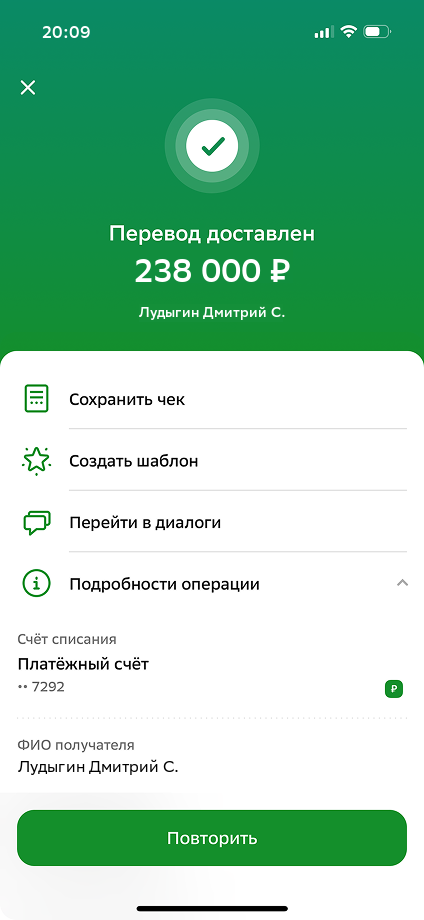
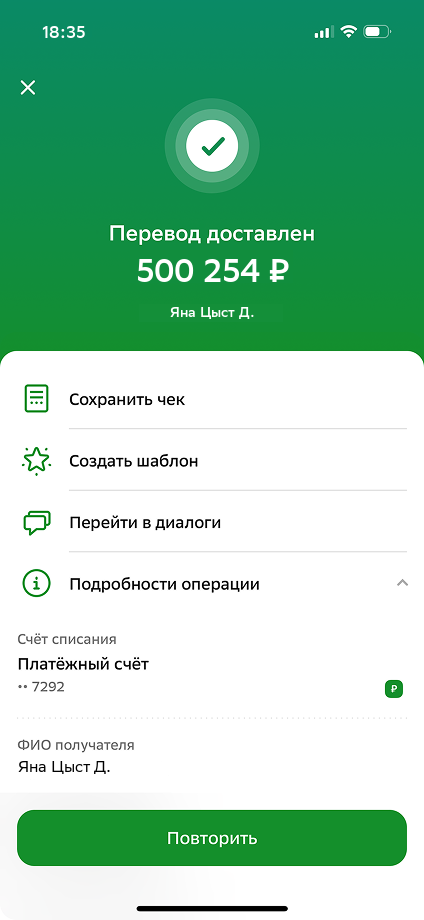
add bot functionality

diff --git a/Bot/bot.ts b/Bot/bot.ts
@@ -44,18 +44,24 @@ async function runPythonScript(
   time: string
 ): Promise<string> {
   return new Promise((resolve, reject) => {
-    const pythonProcess = spawn("python", [
-      path.join(__dirname, "..", "Script", "receipt.py"),
-      name,
-      amount,
-      time,
-    ]);
+    const scriptDir = path.join(__dirname, "..", "Script");
+    // Format data as Python dictionary
+    const dataDict = JSON.stringify({
+      name: name,
+      amount: amount,
+      time: time,
+    });
+    const pythonProcess = spawn(
+      "python",
+      [path.join(scriptDir, "receipt.py"), dataDict],
+      {
+        cwd: scriptDir, // Set the working directory to the Script directory
+      }
+    );
 
     pythonProcess.on("close", (code) => {
       if (code === 0) {
-        resolve(
-          path.join(__dirname, "..", "Script", "check_with_name_shifted_v4.png")
-        );
+        resolve(path.join(scriptDir, "check_with_name_shifted_v4.png"));
       } else {
         reject(new Error(`Python script exited with code ${code}`));
       }
@@ -102,7 +108,7 @@ bot.use(createConversation(receiptConversation));
 
 // Command to start the conversation
 bot.command("start", async (ctx) => {
-  await ctx.conversation.enter("receipt");
+  await ctx.conversation.enter("receiptConversation");
 });
 
 // Add error handler

diff --git a/Script/receipt.py b/Script/receipt.py
@@ -1,5 +1,7 @@
 from PIL import Image, ImageDraw, ImageFont
 import os
+import json
+import sys
 
 def create_receipt(amount, name, custom_time):
     # Пути к шрифтам
@@ -75,6 +77,26 @@ def create_receipt(amount, name, custom_time):
     template.save("check_with_name_shifted_v4.png", quality=100, optimize=False)
     template.show()
 
-# Пример использования:
+# Example usage:
 if __name__ == "__main__":
-    create_receipt("238 000 ₽", "Лудыгин Дмитрий С.", "20:09")
+    if len(sys.argv) != 2:
+        print("Usage: python receipt.py '{\"name\": \"John Doe\", \"amount\": \"238 000 ₽\", \"time\": \"20:09\"}'")
+        sys.exit(1)
+    
+    try:
+        # Parse the dictionary string from command line argument
+        data = json.loads(sys.argv[1])
+        
+        # Extract values from dictionary
+        amount = data.get("amount", "")
+        name = data.get("name", "")
+        time = data.get("time", "")
+        
+        # Create receipt with the data
+        create_receipt(amount, name, time)
+    except json.JSONDecodeError:
+        print("Error: Invalid JSON format")
+        sys.exit(1)
+    except Exception as e:
+        print(f"Error: {str(e)}")
+        sys.exit(1)
